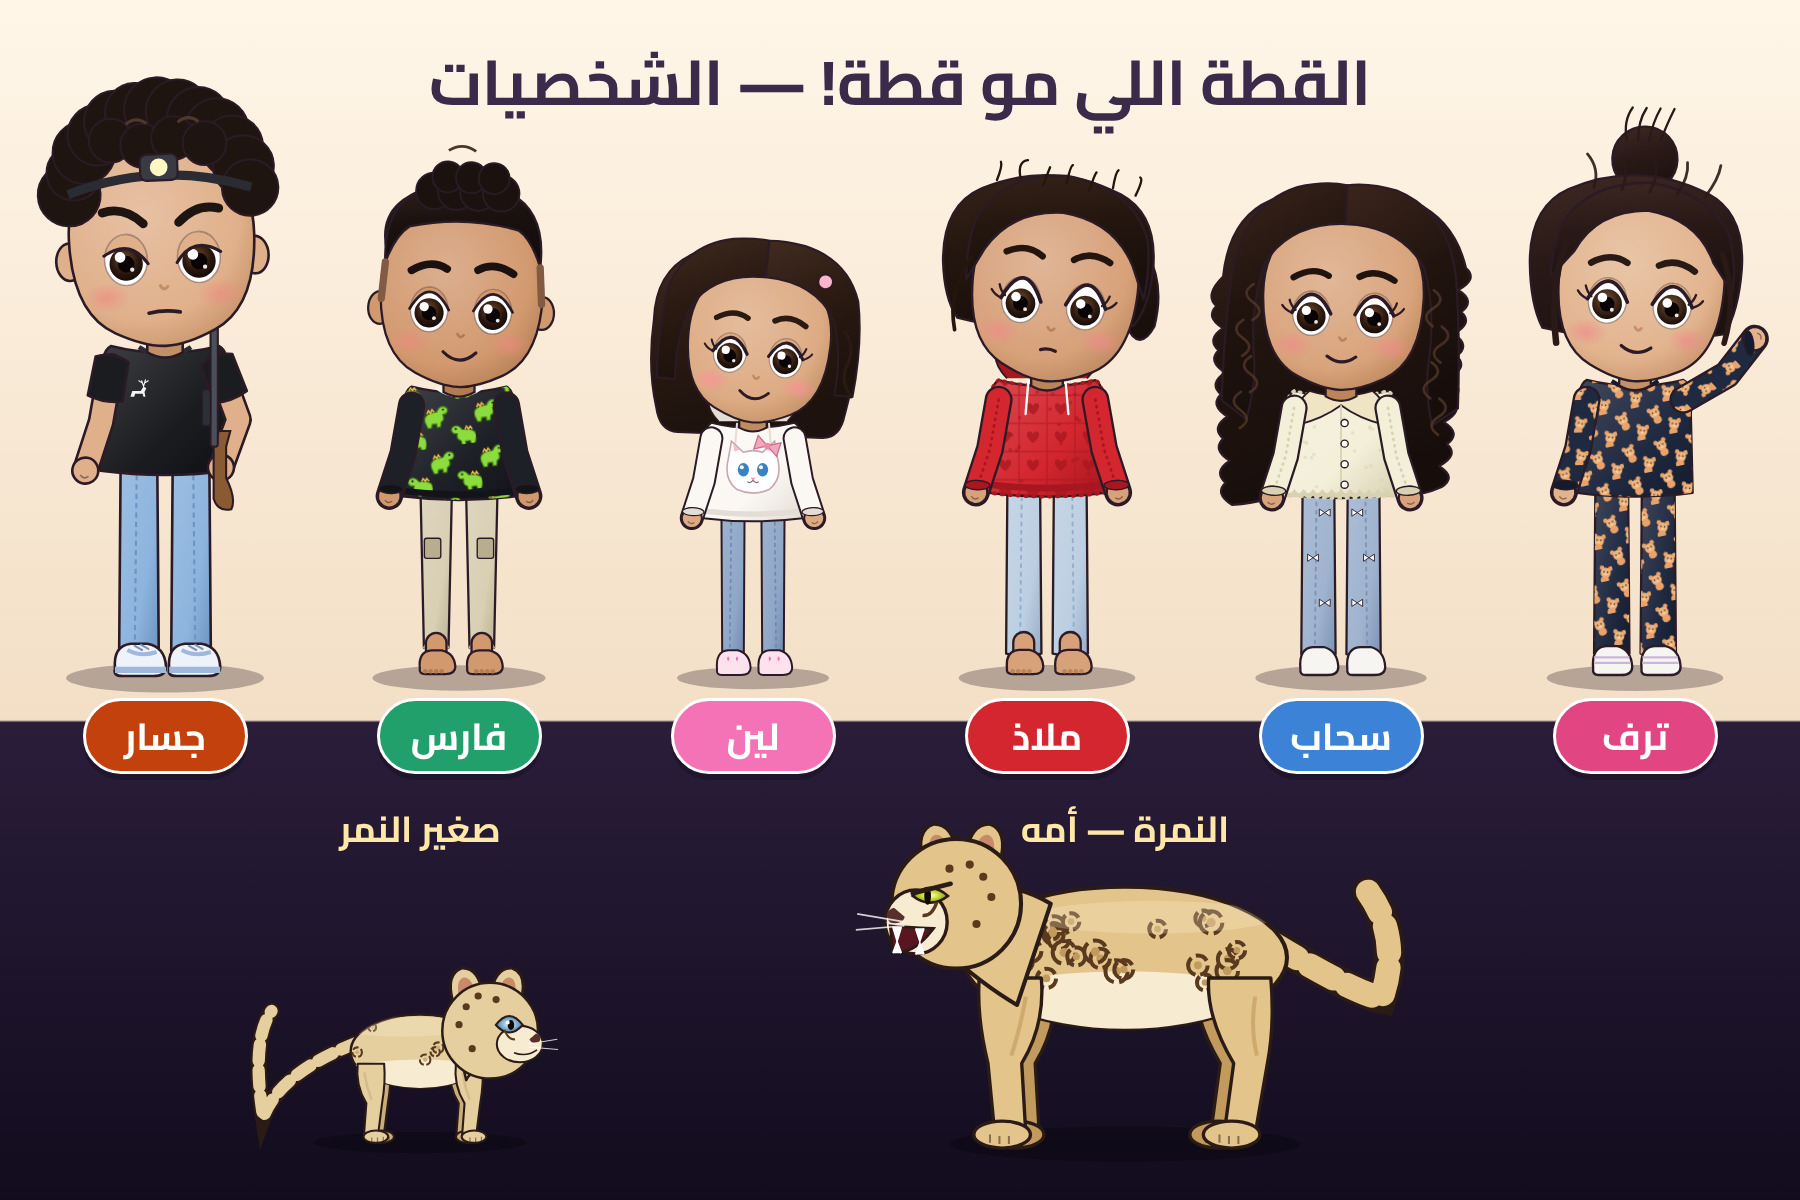
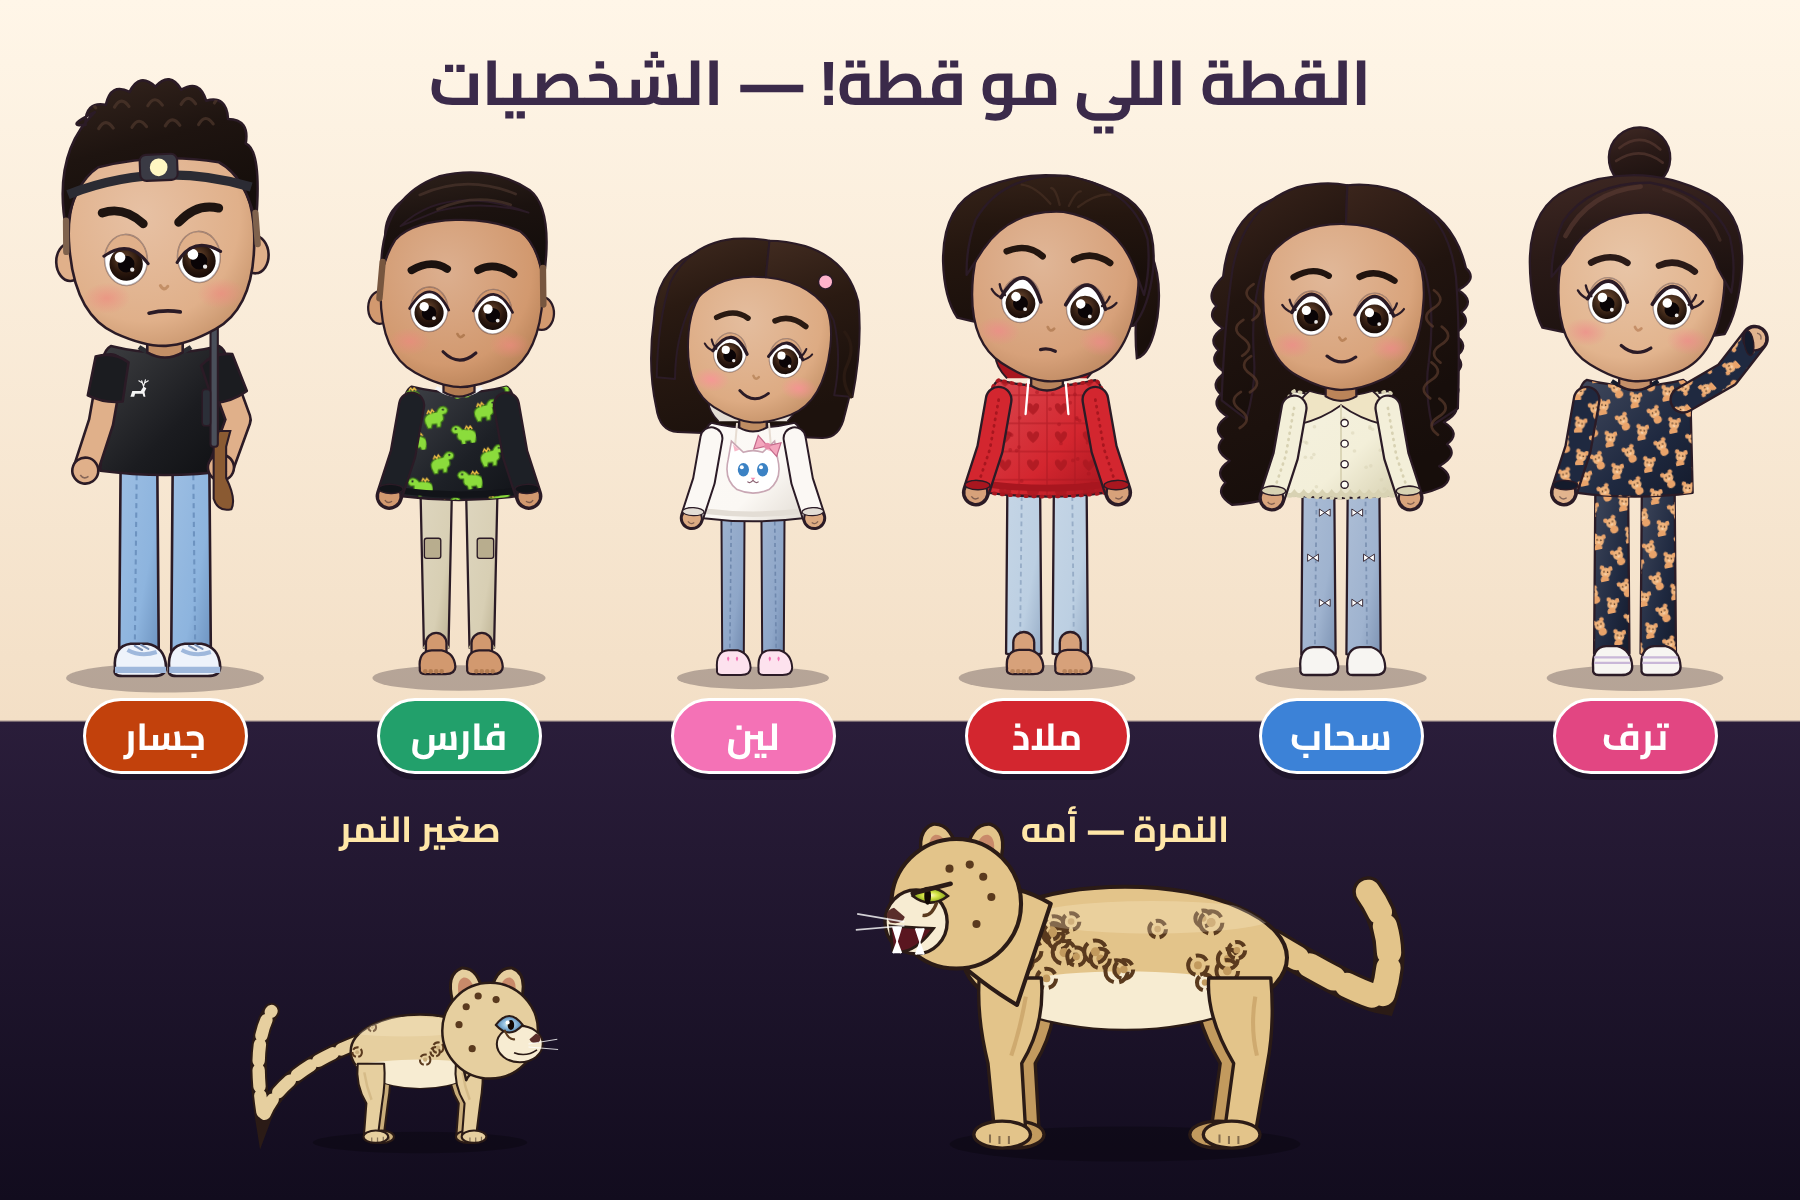
Neater hair for Malath, Taraf, Fares and Jassar
Claude-Session: https://claude.ai/code/session_01QomLS1DKnpzPJdZ2sHNFqG

diff --git a/taraf-nimr/src/Kid.tsx b/taraf-nimr/src/Kid.tsx
@@ -288,23 +288,18 @@ export const Kid: React.FC<KidProps> = (p) => {
       case 'messyBun':
         return (
           <>
-            <path d="M 0 -1060 Q -130 -1050 -180 -960 Q -200 -900 -196 -840 L -150 -900 Q -110 -990 0 -1000 Q 110 -990 150 -900 L 196 -840 Q 200 -900 180 -960 Q 130 -1050 0 -1060 Z" fill={hairFill} stroke={OUT} strokeWidth={SW} strokeLinejoin="round" />
-            {/* loose strands framing the face */}
-            <path d={`M -168 -920 Q ${-200 + sway * 0.3} -820 ${-176 + sway * 0.5} -700`} stroke={hc} strokeWidth={14} fill="none" strokeLinecap="round" />
-            <path d={`M 168 -920 Q ${206 + sway * 0.3} -830 ${184 + sway * 0.5} -730`} stroke={hc} strokeWidth={12} fill="none" strokeLinecap="round" />
-            {[0, 1, 2, 3, 4].map((i) => (
-              <path key={i} d={`M ${-120 + i * 60} -1040 q ${10 + i * 4} -40 ${-20 + i * 12} -70`} stroke={hc} strokeWidth={6} fill="none" strokeLinecap="round" opacity={0.9} />
-            ))}
+            <path d="M 0 -1060 Q -130 -1050 -180 -960 Q -200 -900 -194 -840 L -160 -890 Q -120 -985 0 -996 Q 120 -985 160 -890 L 194 -840 Q 200 -900 180 -960 Q 130 -1050 0 -1060 Z" fill={hairFill} stroke={OUT} strokeWidth={SW} strokeLinejoin="round" />
+            <path d="M -20 -1050 Q -130 -1030 -172 -930" stroke={hh} strokeWidth={10} fill="none" strokeLinecap="round" opacity={0.6} />
+            <path d="M 30 -1048 Q 120 -1030 160 -950" stroke={hh} strokeWidth={7} fill="none" strokeLinecap="round" opacity={0.45} />
           </>
         );
       case 'pulledBack':
         return (
           <>
-            <path d="M 0 -1076 Q -140 -1066 -186 -960 Q -200 -900 -192 -830 L -160 -900 Q -110 -990 0 -996 Q 110 -990 160 -900 L 192 -830 Q 200 -900 186 -960 Q 140 -1066 0 -1076 Z" fill={hairFill} stroke={OUT} strokeWidth={SW} strokeLinejoin="round" />
-            {[0, 1, 2, 3, 4, 5, 6].map((i) => (
-              <path key={i} d={`M ${-150 + i * 50} ${-1050 - (i % 2) * 10} q ${-14 + rnd(i) * 28} ${-24 - rnd(i + 3) * 14} ${-6 + rnd(i + 5) * 18} ${-40}`} stroke={hc} strokeWidth={5} fill="none" strokeLinecap="round" />
+            <path d="M 0 -1076 Q -140 -1066 -186 -960 Q -200 -900 -192 -840 L -162 -900 Q -112 -992 0 -998 Q 112 -992 162 -900 L 192 -840 Q 200 -900 186 -960 Q 140 -1066 0 -1076 Z" fill={hairFill} stroke={OUT} strokeWidth={SW} strokeLinejoin="round" />
+            {[-60, -20, 20, 60].map((x, i) => (
+              <path key={i} d={`M ${x * 0.5} -1012 Q ${x * 1.1} -1046 ${x * 1.6} -1046`} stroke={hh} strokeWidth={5} fill="none" strokeLinecap="round" opacity={0.5} />
             ))}
-            <path d={`M -186 -880 Q ${-230 + sway * 0.3} -800 ${-206 + sway * 0.5} -720`} stroke={hc} strokeWidth={8} fill="none" strokeLinecap="round" />
           </>
         );
       case 'wavyShort':
@@ -319,44 +314,56 @@ export const Kid: React.FC<KidProps> = (p) => {
       case 'boyQuiff':
         return (
           <>
-            <path d="M -170 -900 Q -180 -1020 -100 -1060 Q 0 -1100 100 -1060 Q 180 -1020 170 -900 Q 150 -960 120 -980 Q 0 -1010 -120 -980 Q -150 -960 -170 -900 Z" fill={hairFill} stroke={OUT} strokeWidth={SW} />
-            {/* curly quiff on top */}
-            {[-70, -20, 30, 80, -40, 10, 60].map((x, i) => (
-              <circle key={i} cx={x + Math.sin(t * 2 + i) * 2} cy={i < 4 ? -1060 : -1092} r={i < 4 ? 40 : 34} fill={hc} stroke={OUT} strokeWidth={4} />
-            ))}
-            <path d="M -40 -1150 q 30 -20 60 0" stroke={hh} strokeWidth={6} fill="none" />
-            <path d="M -170 -900 L -176 -820 M 170 -900 L 176 -820" stroke={mix(hc, skin, 0.55)} strokeWidth={16} strokeLinecap="round" />
+            <path d="M -178 -870 Q -190 -1040 -60 -1092 Q 50 -1124 140 -1070 Q 196 -1030 178 -870 Q 164 -950 124 -978 Q 60 -1004 -20 -998 Q -112 -992 -150 -950 Q -170 -916 -178 -870 Z" fill={hairFill} stroke={OUT} strokeWidth={SW} strokeLinejoin="round" />
+            <path d="M -140 -980 Q -40 -1080 140 -1020 Q 40 -1046 -60 -1016 Z" fill={hc} stroke={OUT} strokeWidth={4} strokeLinejoin="round" />
+            <path d="M -100 -1050 Q 0 -1100 110 -1060 M -60 -1020 Q 20 -1060 100 -1036" stroke={hh} strokeWidth={6} fill="none" strokeLinecap="round" opacity={0.7} />
+            <path d="M -176 -900 L -180 -820 M 176 -900 L 180 -820" stroke={mix(hc, skin, 0.5)} strokeWidth={14} strokeLinecap="round" />
           </>
         );
-      case 'boyCurly':
+      case 'boyCurly': {
+        let edge = 'M -182 -860 Q -204 -1010 -118 -1086';
+        for (let i = 0; i < 8; i++) {
+          const a0 = Math.PI * (1.18 + (i / 8) * 0.64);
+          const a1 = Math.PI * (1.18 + ((i + 1) / 8) * 0.64);
+          const x1 = Math.cos(a1) * 200;
+          const y1 = -880 + Math.sin(a1) * 250;
+          const xm = Math.cos((a0 + a1) / 2) * 232;
+          const ym = -880 + Math.sin((a0 + a1) / 2) * 282;
+          edge += ` Q ${xm} ${ym} ${x1} ${y1}`;
+        }
+        edge += ' Q 200 -1000 182 -860 Q 166 -950 116 -980 Q 0 -1004 -116 -980 Q -166 -950 -182 -860 Z';
         return (
           <>
-            {Array.from({length: 13}).map((_, i) => {
-              const a = Math.PI * (1.05 + (i / 12) * 0.9);
-              return <circle key={i} cx={Math.cos(a) * 176} cy={-900 + Math.sin(a) * 186} r={52 + rnd(i) * 10} fill={hc} stroke={OUT} strokeWidth={4} />;
+            <clipPath id={`${id}-curl`}>
+              <path d={edge} />
+            </clipPath>
+            <path d={edge} fill={hairFill} stroke={OUT} strokeWidth={SW} strokeLinejoin="round" />
+            <g clipPath={`url(#${id}-curl)`}>
+            {Array.from({length: 9}).map((_, i) => {
+              const x = -130 + (i % 5) * 64 + (i > 4 ? 32 : 0);
+              const y = i > 4 ? -1060 : -1100;
+              return <path key={i} d={`M ${x - 14} ${y + 6} q 14 -22 28 0`} stroke={hh} strokeWidth={6} fill="none" strokeLinecap="round" opacity={0.7} />;
             })}
-            {[-90, -30, 30, 90].map((x, i) => (
-              <circle key={`f${i}`} cx={x} cy={-1030 + (i % 2) * 12} r={42} fill={hc} stroke={OUT} strokeWidth={4} />
-            ))}
-            {[-60, 40].map((x, i) => (
-              <path key={`h${i}`} d={`M ${x} -1060 q 20 -16 40 0`} stroke={hh} strokeWidth={6} fill="none" />
-            ))}
+            </g>
+            <path d="M -182 -880 L -184 -820 M 182 -880 L 184 -820" stroke={mix(hc, skin, 0.5)} strokeWidth={12} strokeLinecap="round" />
           </>
         );
+      }
     }
   })();
 
   const bun =
     L.hair === 'messyBun' ? (
       <g>
-        <circle cx={10 + sway * 0.2} cy={-1110} r={70} fill={hairFill} stroke={OUT} strokeWidth={SW} />
-        {[0, 1, 2, 3].map((i) => (
-          <path key={i} d={`M ${-30 + i * 24 + sway * 0.2} -1150 q ${-10 + i * 8} -40 ${10 + i * 6} -70`} stroke={hc} strokeWidth={5} fill="none" strokeLinecap="round" />
-        ))}
-        <path d="M -40 -1060 Q 10 -1046 60 -1060" stroke="#f05a8a" strokeWidth={10} fill="none" />
+        <circle cx={0} cy={-1112} r={66} fill={hairFill} stroke={OUT} strokeWidth={SW} />
+        <path d="M -44 -1132 Q 0 -1170 44 -1132 M -50 -1104 Q 0 -1140 50 -1104" stroke={hh} strokeWidth={6} fill="none" strokeLinecap="round" opacity={0.6} />
+        <path d="M -46 -1056 Q 0 -1044 46 -1056" stroke="#f05a8a" strokeWidth={12} fill="none" strokeLinecap="round" />
       </g>
     ) : L.hair === 'pulledBack' ? (
-      <path d={`M 150 -980 Q ${260 + sway} -900 ${230 + sway * 1.4} -760 Q ${200 + sway * 1.4} -700 ${170 + sway} -760 Q 200 -880 140 -950 Z`} fill={hairFill} stroke={OUT} strokeWidth={SW} />
+      <g>
+        <path d={`M 150 -990 Q ${250 + sway} -930 ${236 + sway * 1.3} -780 Q ${226 + sway * 1.4} -700 ${196 + sway * 1.2} -690 Q ${186 + sway} -760 ${196 + sway * 0.6} -860 Q 200 -930 140 -960 Z`} fill={hairFill} stroke={OUT} strokeWidth={SW} />
+        <ellipse cx={168} cy={-972} rx={20} ry={14} fill="#f05a8a" stroke={OUT} strokeWidth={4} transform="rotate(30,168,-972)" />
+      </g>
     ) : null;
 
   /* ---------- eyes */
